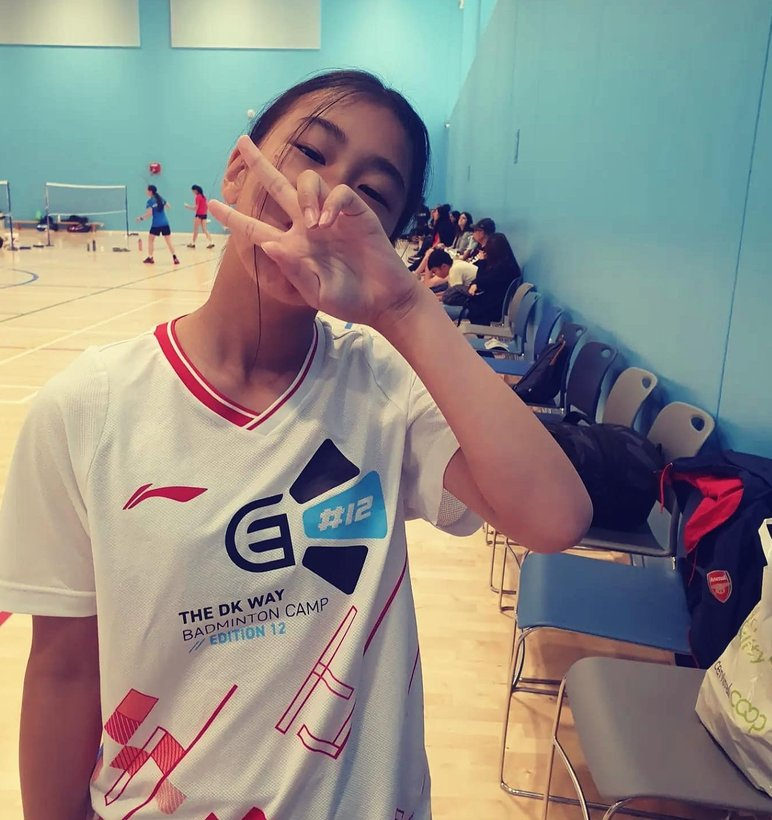
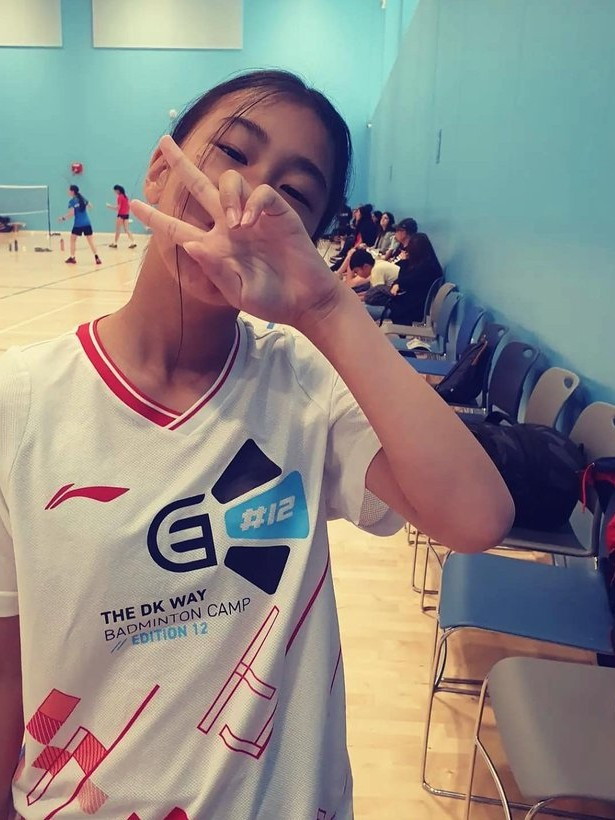
image upload and resize

diff --git a/addimages.php b/addimages.php
@@ -1,0 +1,129 @@
+
+<?php
+#header("Location:admin.php");
+print_r($_POST);
+try{
+	include_once('connection.php');
+	array_map("htmlspecialchars", $_POST);
+    $ext = pathinfo($_FILES["imagey"]["name"], PATHINFO_EXTENSION);
+    $name = str_replace(' ', '', $_FILES["imagey"]["name"]);
+    
+   
+    
+	$stmt = $conn->prepare("INSERT INTO TblImages(ImageID,filename,dateadded,type)VALUES 
+    (NULL,:fn, :dateadded,:type)");
+    $stmt->bindParam(':fn', $_FILES["imagey"]["name"]);
+    $stmt->bindParam(':dateadded', $_POST["dateofupload"]);
+    $stmt->bindParam(':type', $_POST["typeofdoc"]);
+    $stmt->execute();
+    $target_dir = "images/";
+
+    $target_file = $target_dir . basename($name);
+    echo $target_file;
+    
+    
+
+   
+    $imageFileType = strtolower(pathinfo($target_file,PATHINFO_EXTENSION));
+    if (move_uploaded_file($_FILES["imagey"]["tmp_name"], $target_file)) {
+        echo "The file ". htmlspecialchars( basename( $_FILES["imagey"]["name"])). " has been uploaded.";
+      } else {
+        echo "Sorry, there was an error uploading your file.";
+      }
+    #cropper
+    $imagePath = "./images/".$name;
+    list($originalWidth, $originalHeight, $imageType) = getimagesize($imagePath);
+    
+    switch ($imageType) {
+        case IMAGETYPE_JPEG:
+            $image = imagecreatefromjpeg($imagePath);
+            break;
+        case IMAGETYPE_PNG:
+            $image = imagecreatefrompng($imagePath);
+            break;
+        case IMAGETYPE_GIF:
+            $image = imagecreatefromgif($imagePath);
+            break;
+        default:
+            die('Unsupported image type');
+    }
+    
+    // Set the desired aspect ratio
+    if ($_POST["typeofdoc"]=="Panorama"){
+        $targetAspectRatio = 20 / 9;
+    }elseif ($_POST["typeofdoc"]=="Landscape"){
+        $targetAspectRatio = 4 / 3;
+    }elseif ($_POST["typeofdoc"]=="Portrait"){
+        $targetAspectRatio = 3 / 4;
+    }else{
+        $targetAspectRatio = 1 / 1;
+    }
+    
+    // Calculate the new dimensions
+    $originalAspectRatio = $originalWidth / $originalHeight;
+    
+    if ($originalAspectRatio > $targetAspectRatio) {
+        // Original image is wider than target aspect ratio
+        $newHeight = $originalHeight;
+        $newWidth = $originalHeight * $targetAspectRatio;
+        $cropX = ($originalWidth - $newWidth) / 2;
+        $cropY = 0;
+    } else {
+        // Original image is taller than target aspect ratio
+        $newWidth = $originalWidth;
+        $newHeight = $originalWidth / $targetAspectRatio;
+        $cropX = 0;
+        $cropY = ($originalHeight - $newHeight) / 2;
+    }
+    
+    // Create a new image canvas with the new dimensions
+    $croppedImage = imagecreatetruecolor($newWidth, $newHeight);
+    
+    // Copy and resize the original image to the new canvas
+    imagecopyresampled($croppedImage, $image, 0, 0, $cropX, $cropY, $newWidth, $newHeight, $newWidth, $newHeight);
+    
+    // Save or output the cropped image
+    $outputPath = "./images/".$name;
+    imagejpeg($croppedImage, $outputPath, 90);
+    
+    // Clean up
+    imagedestroy($image);
+    imagedestroy($croppedImage);
+    
+    echo "Image cropped and saved to $outputPath";
+
+    /* // load your source image
+    $bigim="./images/".$name;
+Echo($bigim);
+//getting the image dimensions
+list($width, $height) = getimagesize($bigim);
+
+//saving the image into memory (for manipulation with GD Library)
+$myImage = imagecreatefromjpeg($bigim);
+
+// calculating the part of the image to use for thumbnail
+if ($width > $height) {
+  $y = 0;
+  $x = ($width - $height) / 2;
+  $smallestSide = $height;
+} else {
+  $x = 0;
+  $y = ($height - $width) / 2;
+  $smallestSide = $width;
+}
+
+// copying the part into thumbnail
+$thumbSize = 300;
+$thumb = imagecreatetruecolor($thumbSize, $thumbSize);
+imagecopyresampled($thumb, $myImage, 0, 0, $x, $y, $thumbSize, $thumbSize, $smallestSide, $smallestSide);
+
+//final output
+#header('Content-type: image/jpeg');
+imagejpeg($thumb,$bigim); */
+}
+catch(PDOException $e)
+{
+    echo "error".$e->getMessage();
+}
+$conn=null; 
+?>

diff --git a/setup.php b/setup.php
@@ -41,12 +41,35 @@ try {
     $stmt1 = $conn->prepare("DROP TABLE IF EXISTS TblMedia;
     CREATE TABLE TblMedia 
     (MediaID INT(4) UNSIGNED AUTO_INCREMENT PRIMARY KEY,
-    embedcode LONGTEXT NOT NULL,
+    details LONGTEXT NOT NULL,
     dateadded DATE DEFAULT (current_timestamp()),
     type VARCHAR(200))");
-    
+   
     $stmt1->execute();
     $stmt1->closeCursor();
+    $stmt1 = $conn->prepare("DROP TABLE IF EXISTS TblImages;
+    CREATE TABLE TblImages 
+    (ImageID INT(4) UNSIGNED AUTO_INCREMENT PRIMARY KEY,
+    filename LONGTEXT NOT NULL,
+    dateadded DATE DEFAULT (current_timestamp()),
+    type VARCHAR(200))");
+   
+    $stmt1->execute();
+    $stmt1->closeCursor();
+    $stmt5 = $conn->prepare("INSERT INTO TblImages(ImageID,filename,dateadded,type)VALUES 
+    (NULL,'1.jpg', '24-05-22','Portrait'),
+    (NULL,'2.jpg', '24-05-22','Portrait'),
+    (NULL,'3.jpg', '24-05-22','Portrait'),
+    (NULL,'4.jpg', '24-05-22','Panorama'),
+    (NULL,'5.jpg', '24-05-22','Portrait'),
+    (NULL,'6.jpg', '24-05-22','Portrait'),
+    (NULL,'7.jpg', '24-05-22','Portrait'),
+    (NULL,'8.jpg', '24-05-22','Portrait'),
+    (NULL,'9.jpg', '24-05-22','Landscape')
+    ");
+    $stmt5->execute();
+    $stmt5->closeCursor();
+
     $stmt1 = $conn->prepare("DROP TABLE IF EXISTS TblDocs;
     CREATE TABLE TblDocs 
     (DocID INT(4) UNSIGNED AUTO_INCREMENT PRIMARY KEY,
@@ -54,18 +77,27 @@ try {
     filename VARCHAR(300) NOT NULL,
     dateadded DATE DEFAULT (current_timestamp()),
     type VARCHAR(200))");
-    
     $stmt1->execute();
     $stmt1->closeCursor();
+    $stmt5 = $conn->prepare("INSERT INTO TblDocs(DocID,title,filename,dateadded,type)VALUES 
+    (NULL,'16th November 2023','16thNovember2023.pdf', NULL,'Minutes')
+    ");
+    $stmt5->execute();
+    $stmt5->closeCursor();
     $stmt1 = $conn->prepare("DROP TABLE IF EXISTS TblCommittee;
     CREATE TABLE TblCommittee 
-    (comitteeID INT(4) UNSIGNED AUTO_INCREMENT PRIMARY KEY,
+    (CommitteeID INT(4) UNSIGNED AUTO_INCREMENT PRIMARY KEY,
     Name VARCHAR(50) NOT NULL,
     Post VARCHAR(50) NOT NULL,
     Pic VARCHAR(200))");
-    
     $stmt1->execute();
     $stmt1->closeCursor();
+    $stmt5 = $conn->prepare("INSERT INTO TblCommittee(CommitteeID,Name,Post,Pic)VALUES 
+    (NULL,'Rob Cunniffe','Schools representative','Rob.jpg')
+    ");
+    $stmt5->execute();
+    $stmt5->closeCursor();
+
     # tables for league scoring
     #already have club
     #club has team

diff --git a/send_email.php b/send_email.php
@@ -1,0 +1,36 @@
+<?php
+if ($_SERVER["REQUEST_METHOD"] == "POST") {
+    // Collect form data
+    $name = htmlspecialchars($_POST['name']);
+    $email = filter_var($_POST['email'], FILTER_SANITIZE_EMAIL);
+    $message = htmlspecialchars($_POST['message']);
+
+    // Check if data is valid
+    if (empty($name) || empty($email) || empty($message)) {
+        echo "All fields are required.";
+        exit;
+    }
+
+    if (!filter_var($email, FILTER_VALIDATE_EMAIL)) {
+        echo "Invalid email format.";
+        exit;
+    }
+
+    // Email settings
+    $to = "ric@oundleschool.org.uk"; // Replace with your email address
+    $subject = "New Contact Form Submission";
+    $headers = "From: $email" . "\r\n" .
+               "Reply-To: $email" . "\r\n" .
+               "X-Mailer: PHP/" . phpversion();
+    $body = "Name: $name\n";
+    $body .= "Email: $email\n";
+    $body .= "Message:\n$message";
+
+    // Send email
+    if (mail($to, $subject, $body, $headers)) {
+        echo "Thank you for contacting us. We will get back to you soon.";
+    } else {
+        echo "There was an error sending your message. Please try again later.";
+    }
+}
+?>

diff --git a/index.php b/index.php
@@ -62,8 +62,29 @@
     </div>
    
   </div>
-</div
+</div>
+<div class="container">
+  <h1>Where to Find us</h1>
+  <iframe src="https://www.google.com/maps/embed?pb=!1m18!1m12!1m3!1d8603.64306355196!2d-0.7243395375532741!3d52.30139139078685!2m3!1f0!2f0!3f0!3m2!1i1024!2i768!4f13.1!3m3!1m2!1s0x4877a1142249bab3%3A0xe40742334642f9ee!2sWeavers%20Leisure%20Centre!5e0!3m2!1sen!2suk!4v1716374406027!5m2!1sen!2suk" 
+    width=100% height=400px style="border:0;" allowfullscreen="" loading="lazy" referrerpolicy="no-referrer-when-downgrade">
+  </iframe>
+</div>
+<div class="container">
+  <h1>Contact Us</h1>
+      <form action="send_email.php" method="post">
+          <label for="name">Name:</label>
+          <input type="text" id="name" name="name" required>
+          <br>
+          <label for="email">Email:</label>
+          <input type="email" id="email" name="email" required>
+          <br>
+          <label for="message">Message:</label>
+          <textarea id="message" name="message" required></textarea>
+          <br>
+          <input type="submit" value="Send">
+      </form>
 
+</div>
 
 </body>
 </html>

diff --git a/admin.php b/admin.php
@@ -17,7 +17,19 @@
 </div>
 <h1>Admin for adding to website</h1>
 <p> need to have ability to edit here too and separate into different parts</p>
-
+<h1>Images</h1>
+  <form action="addimages.php" method="POST" enctype="multipart/form-data">
+    Type of image - note images will be cropped to default aspect ratio for these types of image
+    <select name="typeofdoc">
+      <option value="Square">Square</option>
+      <option value="Portrait">Portrait</option>
+      <option value="Landscape">Landscape</option>
+      <option value="Panorama">Panorama</option>
+    </select><br>
+    Date <input type="date" id="dateofupload" name="dateofupload"><br>
+    image: <input type="file" id="imagey" name="imagey" accept=".jpg, .jpeg"><br>
+  	<input type="submit" value="Add gallery image">
+	</form>
 <h1>Add social media feed</h1>
 <form action="addmedia.php" method="POST">
   	Embed code:<input type="text" name="embedcode"><br>

diff --git a/committee.php b/committee.php
@@ -15,9 +15,10 @@
     ?>
 
 </div>
+
+<div class="container">
 <h1>Committee</h1>
 <H2>Meet the committee</h2><br>
-<div class="container">
 <div class="row">
   <?php
   include_once('connection.php');

diff --git a/addmedia.php b/addmedia.php
@@ -9,3 +9,4 @@ include_once('connection.php');
     $stmt->bindParam(':type', $_POST["type"]);
     
     $stmt->execute();
+    ?>
